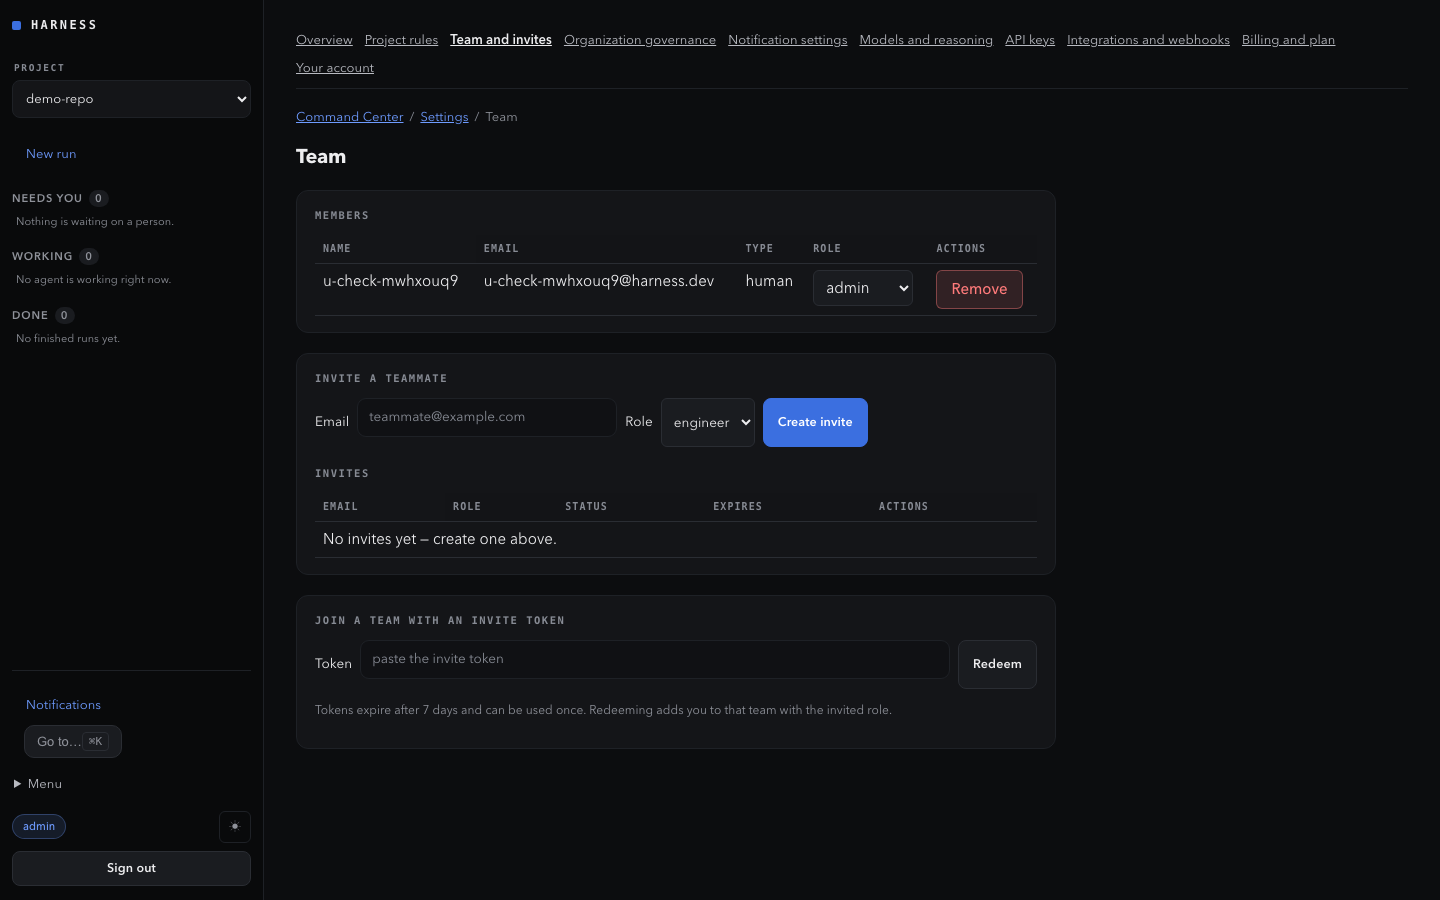
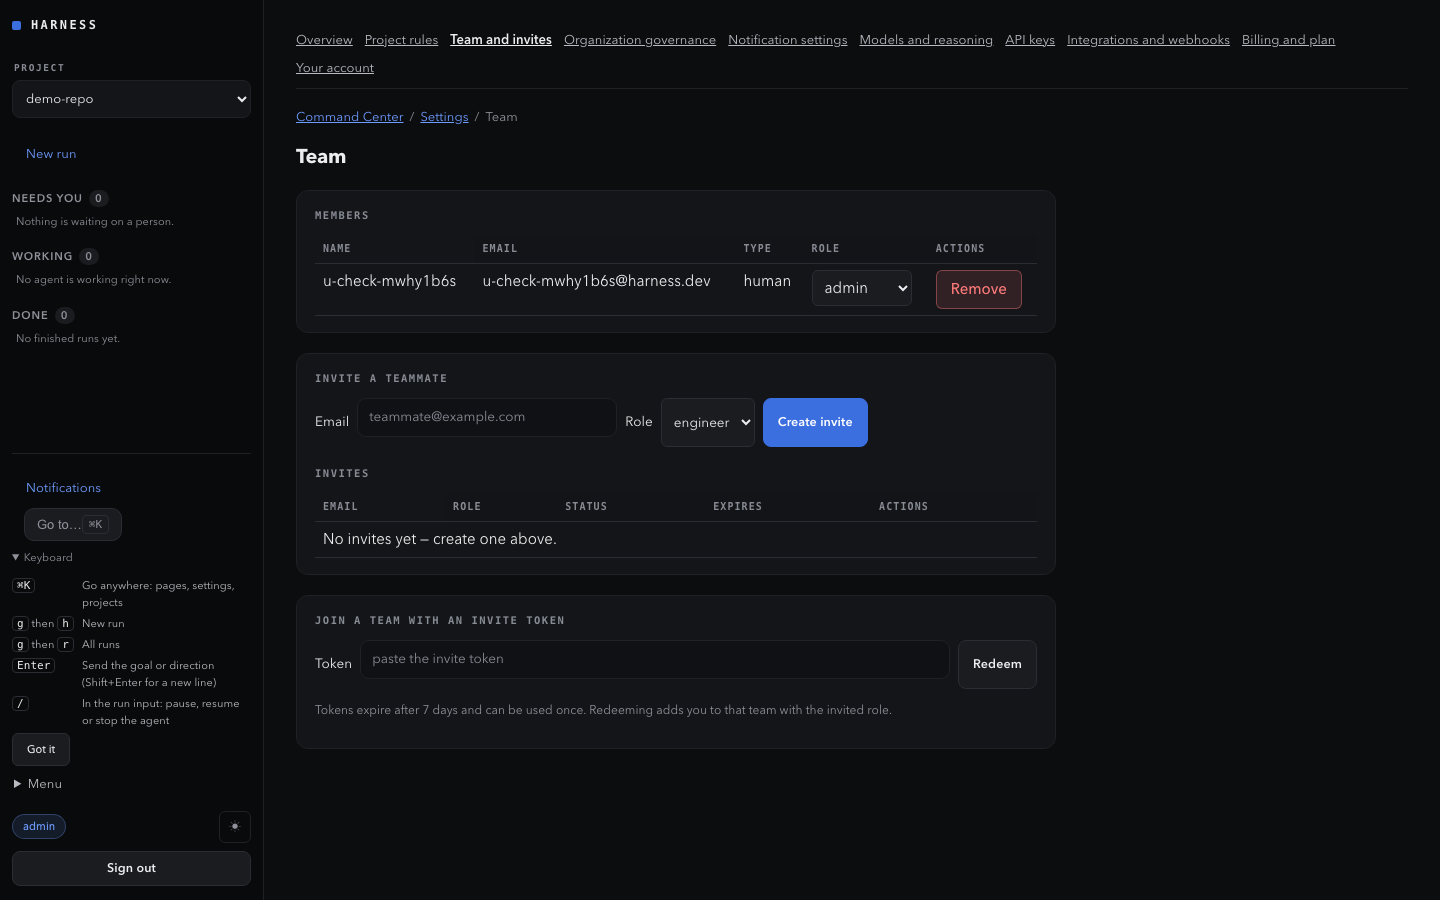
Five-key tour in the sidebar; the cost page leads with one number; unused prReview removed

diff --git a/section7/app/dashboard/cost/page.tsx b/section7/app/dashboard/cost/page.tsx
@@ -35,7 +35,6 @@ import {
 const RANGES = [7, 30, 90] as const;
 type RangeDays = (typeof RANGES)[number];
 
-const kpiNumberStyle = { fontSize: 22 } as const;
 
 export default function CostDashboardPage() {
   const [rangeDays, setRangeDays] = useState<RangeDays>(30);
@@ -214,17 +213,14 @@ export default function CostDashboardPage() {
 
       {hasData && summary !== null && (
         <>
-          <div className="grid">
-            <Card title="Total cost">
-              <div style={kpiNumberStyle}>{formatUsd(summary.totals.costUsd)}</div>
-            </Card>
-            <Card title="Input tokens">
-              <div style={kpiNumberStyle}>{formatTokens(summary.totals.inputTokens)}</div>
-            </Card>
-            <Card title="Output tokens">
-              <div style={kpiNumberStyle}>{formatTokens(summary.totals.outputTokens)}</div>
-            </Card>
-          </div>
+          {/* One headline number; tokens are detail under it. */}
+          <p className="cost-headline" data-testid="cost-headline">
+            <strong>{formatUsd(summary.totals.costUsd)}</strong>
+            <span>
+              spent in the last {rangeDays} days · {formatTokens(summary.totals.inputTokens)} input tokens ·{" "}
+              {formatTokens(summary.totals.outputTokens)} output tokens
+            </span>
+          </p>
 
           <Card title="By model" aria-label="Spend by model" style={{ marginTop: 16 }}>
             <ul style={{ listStyle: "none", margin: 0, padding: 0 }}>
@@ -276,7 +272,7 @@ export default function CostDashboardPage() {
             </ul>
           </Card>
 
-          <Card title="By day" aria-label="Spend by day" style={{ marginTop: 16 }}>
+          <Card aria-label="Spend by day" style={{ marginTop: 16 }}>
             <div
               style={{
                 display: "flex",

diff --git a/section7/src/components/KeyTour.tsx b/section7/src/components/KeyTour.tsx
@@ -1,0 +1,51 @@
+"use client";
+
+// U5: the five keys worth knowing, in the sidebar. Open on a person's first
+// visit, closed for good once they say so; always one click away after that.
+
+import * as React from "react";
+import { Button } from "@/components/ui";
+
+const SEEN_KEY = "harness.keytour.seen";
+
+export const TOUR_KEYS: ReadonlyArray<{ keys: string[]; does: string }> = [
+  { keys: ["⌘K"], does: "Go anywhere: pages, settings, projects" },
+  { keys: ["g", "h"], does: "New run" },
+  { keys: ["g", "r"], does: "All runs" },
+  { keys: ["Enter"], does: "Send the goal or direction (Shift+Enter for a new line)" },
+  { keys: ["/"], does: "In the run input: pause, resume or stop the agent" },
+];
+
+export function KeyTour() {
+  const [open, setOpen] = React.useState(false);
+  React.useEffect(() => {
+    try {
+      setOpen(window.localStorage.getItem(SEEN_KEY) === null);
+    } catch {
+      // storage blocked: the tour stays closed and still opens on click
+    }
+  }, []);
+  return (
+    <details className="key-tour" data-testid="key-tour" open={open} onToggle={(e) => setOpen(e.currentTarget.open)}>
+      <summary>Keyboard</summary>
+      <dl>
+        {TOUR_KEYS.map((k) => (
+          <React.Fragment key={k.does}>
+            <dt>{k.keys.map((x) => <kbd key={x}>{x}</kbd>).reduce<React.ReactNode[]>((a, el, i) => (i ? [...a, " then ", el] : [el]), [])}</dt>
+            <dd>{k.does}</dd>
+          </React.Fragment>
+        ))}
+      </dl>
+      <Button size="sm" testId="key-tour-done" onClick={() => {
+        try {
+          window.localStorage.setItem(SEEN_KEY, "1");
+        } catch {
+          // storage blocked: it closes for this visit only
+        }
+        setOpen(false);
+      }}>
+        Got it
+      </Button>
+    </details>
+  );
+}

diff --git a/section7/app/globals.css b/section7/app/globals.css
@@ -1889,3 +1889,15 @@ a[href] {
 .settings-nav { display: flex; flex-wrap: wrap; gap: var(--space-1) var(--space-3); margin-bottom: var(--space-4); padding-bottom: var(--space-2); border-bottom: 1px solid var(--border-soft); font-size: var(--text-sm); }
 .settings-nav a { color: var(--text-2); min-height: 24px; display: inline-flex; align-items: center; }
 .settings-nav a[aria-current="page"] { color: var(--text); font-weight: 600; text-decoration: underline; }
+
+/* Cost page: one headline number, detail in the line under it. */
+.cost-headline { margin: 0 0 var(--space-4); display: flex; flex-direction: column; gap: 4px; font-size: var(--text-sm); color: var(--text-2); }
+.cost-headline strong { font-size: 40px; line-height: 1.1; font-weight: 600; color: var(--text); font-variant-numeric: tabular-nums; }
+
+/* Five-key tour in the sidebar footer. */
+.key-tour { font-size: var(--text-xs); color: var(--text-2); }
+.key-tour summary { cursor: pointer; min-height: 24px; color: var(--muted); }
+.key-tour dl { margin: var(--space-1) 0; display: grid; grid-template-columns: auto 1fr; gap: 4px var(--space-2); align-items: baseline; }
+.key-tour dt { white-space: nowrap; }
+.key-tour dd { margin: 0; }
+.key-tour kbd { font-family: var(--font-mono); font-size: 11px; border: 1px solid var(--border); border-radius: 4px; padding: 0 4px; color: var(--text); }

diff --git a/section7/e2e/leftovers.e2e.ts b/section7/e2e/leftovers.e2e.ts
@@ -9,10 +9,18 @@ import { loginViaUi } from "./support";
 const TAGS = ["wcag2a", "wcag2aa", "wcag21aa", "wcag22aa"];
 
 test("settings nav, palette, triage and checkpoints", async ({ page }) => {
+  const t0 = Date.now();
   await loginViaUi(page, `u-leftovers-${Date.now().toString(36)}@harness.dev`);
+  // First visit: the five-key tour is open, and closes for good.
+  await expect(page.locator(".key-tour dt")).toHaveCount(5);
+  await page.getByTestId("key-tour-done").click();
   await page.goto("/demo");
   await page.getByTestId("demo-seed-button").click();
   await page.waitForURL(/\/projects\/[^/]+\/runs\/[^/?#]+/, { timeout: 60_000 });
+  await expect(page.getByText("Pull request opened").first()).toBeVisible();
+  // U5: a new person reaches a finished demo run in under 60 s (sign-in included).
+  expect(Date.now() - t0).toBeLessThan(60_000);
+  await expect(page.getByTestId("key-tour-done")).toBeHidden();
   const runPath = new URL(page.url()).pathname;
 
   await page.goto("/settings/team");

diff --git a/section7/src/lib/commands.test.ts b/section7/src/lib/commands.test.ts
@@ -1,5 +1,6 @@
 import { describe, expect, it } from "vitest";
 import { readdirSync } from "node:fs";
+import { TOUR_KEYS } from "@/components/KeyTour";
 import { join } from "node:path";
 import { NAV_COMMANDS, OTHER_PAGES, SETTINGS_PAGES, isTypingTarget, stepShortcut } from "@/lib/commands";
 
@@ -32,6 +33,12 @@ describe("command shortcuts (U0)", () => {
     const skip = ["/login", "/auth/sso/callback", "/notifications/unsubscribe"];
     const reachable = new Set([...NAV_COMMANDS, ...SETTINGS_PAGES, ...OTHER_PAGES].map((c) => c.href));
     expect(pages.filter((p) => !skip.includes(p) && !reachable.has(p))).toEqual([]);
+  });
+  it("the key tour teaches five keys, and its g-shortcuts are real", () => {
+    expect(TOUR_KEYS).toHaveLength(5);
+    for (const k of TOUR_KEYS.filter((t) => t.keys[0] === "g")) {
+      expect(stepShortcut(true, k.keys[1]).href).not.toBeNull();
+    }
   });
   it("never fires while the user is typing", () => {
     expect(isTypingTarget("input", false)).toBe(true);

diff --git a/section7/src/components/AppShell.tsx b/section7/src/components/AppShell.tsx
@@ -18,6 +18,7 @@ import { MAIN_CONTENT_ID, useSkipTarget } from "@/lib/focus";
 import NotificationBell from "../../app/notifications/NotificationBell";
 import { ThemeToggle } from "@/components/ThemeToggle";
 import CommandPalette from "@/components/CommandPalette";
+import { KeyTour } from "@/components/KeyTour";
 import { SETTINGS_PAGES } from "@/lib/commands";
 
 // R2: the sidebar is the run list. Everything that used to be a nav
@@ -207,6 +208,7 @@ export default function AppShell({
               router.push("/login");
             }}
           />
+          <KeyTour />
           <details className="ws-menu">
             <summary>Menu</summary>
             <nav aria-label="More">

diff --git a/docs/briefs/evidence/ui/u-leftovers-report-2026-11-15.md b/docs/briefs/evidence/ui/u-leftovers-report-2026-11-15.md
@@ -14,6 +14,20 @@ Branch `w28-s1-delegate`, nothing pushed.
 - **Open a run's checkpoints inside the shell**, with a link back to the run.
 - **Scroll wide tables from the keyboard**: sideways-scrolling tables are now focusable regions.
 
+## Added later the same day
+
+- **Five-key tour** in the sidebar ("Keyboard"): open on a person's first visit, closed for good
+  after "Got it", one click away afterwards. A unit test checks its shortcuts exist.
+- **Cost page leads with one number**: total spend for the period in large type, tokens in the line
+  under it. The doubled "By day" heading is gone.
+- **Under-60-second first run**: measured, not built; the demo already finishes at once. Locally the
+  demo button reaches a finished run with a pull request in 0.2 s; `e2e/leftovers.e2e.ts` now
+  asserts sign-in to finished demo run in under 60 s.
+- The timed task for U1 was already recorded in `week-ui.md` (0.18 s, keyboard).
+- `prReview.tsx` (unused since R2) is deleted.
+- `node scripts/u-check.mjs` after these: **0 failures**; unit tests **1199 passed**. These later
+  items are **not yet on `:3011`** (the RC frontend was last rebuilt before them).
+
 ## Verification actually run (from `section7/`)
 
 | Check | Result |
@@ -34,7 +48,10 @@ Branch `w28-s1-delegate`, nothing pushed.
   real pending plan are covered by the component's 12 unit tests, not by a browser run.
 - `PhoneTriage.tsx` and its test were another lane's uncommitted files; they are committed here
   unchanged because the new route needs them.
-- Not started: the five-key tour, the under-60-second demo, the timed task recording (U1),
-  presence (U6, gated), the Cost page headline, the client portal (P-17).
-- `prReview.tsx` is still unused and not deleted. `e2e/multiplayer.e2e.ts` was not checked.
+- `e2e/multiplayer.e2e.ts` is **stale and not fixed**: it still signs in to the old "Command
+  Center", uses the removed "Open shared run" link and reads the shared-run panel that now lives in
+  the Advanced pane. It needs the pilot stack (`deploy/pilot/stack.py`), which was not running, so a
+  rewrite could not be verified and was not attempted.
+- **No recorded screen-reader journey**: that needs a person using a screen reader.
+- Presence (U6) and the client portal (P-17) are gated on owner decisions and not built.
 - D-U1 still records shadcn/ui, which is not installed.
